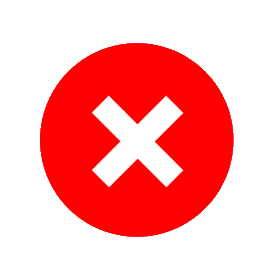
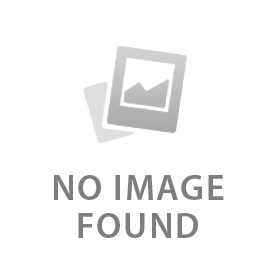
finished database

diff --git a/main.py b/main.py
@@ -7,21 +7,14 @@ import tkinter.messagebox
 from io import BytesIO
 from PIL import Image, ImageTk
 import base64
+import sqlite3
+
 appname = "Product Checker"
 appauthor = "Jackywathy24"
 #import os
 #os.chdir(appdirs.user_data_dir(appname,appauthor))
 
-
-
-
-
-
-
-
 picturePath = ...
-
-
 
 class MyAppPage(tkinter.Frame):
     def __init__(self, parent, database, MainApp):
@@ -29,6 +22,7 @@ class MyAppPage(tkinter.Frame):
         :type database: SQLDatabase
         :type MainApp: Application
         """
+
         super().__init__(parent)
         self.database = database
         self.MainApp = MainApp
@@ -38,17 +32,20 @@ class MyAppPage(tkinter.Frame):
 class MyBarcodePage(MyAppPage):
     def queryDataBase(self, event):
         if self.MainApp.checkSpecialBarcodes(event.widget.get()):
-            print(event.widget.get())
             event.widget.doDelete = True
         else:
             barcode = event.widget.get()
             barcode_data = self.database.get_item(barcode)
-            if barcode_data is not None:
-                #print(barcode_data)
-                self.set_info(barcode_data)
+            # get data in excel&basic isbn's
+            if barcode_data is None:
+                # get data from basic #123's
+                barcode_data = self.database.get_basic_number(barcode)
+                if barcode_data is not None:
+                    self.set_info(barcode_data)
+                else:
+                    self.set_info(None)
             else:
-                #print("NONE")
-                self.set_info(None)
+                self.set_info(barcode_data)
 
     def set_info(self, info):
         raise NotImplemented
@@ -57,7 +54,12 @@ class MyBarcodePage(MyAppPage):
     def selectAll(event):
         event.widget.selection_range(0,END)
 
-
+    @staticmethod
+    def upToThree(event, length=3):
+        input = event.widget.get()
+        if len(input) > length:
+            event.widget.delete(0,END)
+            event.widget.insert(0, input[:length])
 
 class InsertPage(MyAppPage):
     def SwitchTo(self):
@@ -79,8 +81,8 @@ class ImageHolderUpdater:
         return self._image
     @Image.setter
     def Image(self, newimage):
-        if newimage is None:
-            self._image = None
+        if newimage is None or newimage.lower() == 'none':
+            self._image = errorImage
         else:
             self.decoded = Image.open(BytesIO(base64.b64decode(newimage)))
             #self.decoded.show()
@@ -102,16 +104,18 @@ class ImageHolderUpdater:
 class QueryPage(MyBarcodePage):
     def set_info(self, infoTuple):
         if infoTuple is None:
-            for i in [self.ItemNameVar, self.ISBNVar, self.authorVar]:
+            for i in [self.ItemNameVar, self.ISBNVar, self.authorVar,self.frontVar, self.backVar,self.ImageHolder]:
                 i.set("None")
-            for i in self.frontVar, self.backVar:
-                i.set("None")
-            self.priceVar.set('None')
         else:
+            id = False
+            if len(infoTuple) > 7: # if it contains an id!
+                id = infoTuple[7]
+                infoTuple = infoTuple[:7]
             for var, data in zip([self.ItemNameVar, self.authorVar, self.ISBNVar, self.frontVar, self.backVar, self.priceVar, self.ImageHolder], infoTuple):
-                #print('setting', var, 'to', data)
                 var.set(data)
             self.priceVar.set("$"+self.priceVar.get())
+            if id == False:
+                print(id, "IS ID")
 
     def SwitchTo(self):
         self.barcodeEntry.focus_set()
@@ -137,14 +141,25 @@ class QueryPage(MyBarcodePage):
             self.queryDataBase(event)
             self.selectAll(event)
 
+
+
         tkinter.Label(self, text="Barcode").grid(row=0, column=0, columnspan=8)
 
 
-
-        barcodeEntry = tkinter.Entry(self, font=("Courier", 20), justify='center')
+        entriesFrame = tkinter.Frame(self)
+        barcodeEntry = tkinter.Entry(entriesFrame, font=("Courier", 20), justify='center')
         barcodeEntry.bind("<Return>", queryAndSelect)
-        barcodeEntry.grid(row=1, column=0, columnspan=8, padx=(35,35), pady=(0,35))
+
+        barcodeEntry.pack(side=LEFT)
         self.barcodeEntry = barcodeEntry
+
+
+
+        entriesFrame.grid(row=1,column=0,columnspan=8,pady=(0,35))
+
+
+
+
         ShowBox = tkinter.Frame(self)
         self.ShowBoxText = tkinter.StringVar()
         ShowBoxLabel = tkinter.Label(ShowBox,  font=("Helvetica", 16), justify='center', textvariable=self.ShowBoxText)
@@ -176,39 +191,33 @@ class QueryPage(MyBarcodePage):
             tkinter.Label(authorGrid, text=doubleRow[0], **self.queryDescriptor).grid(**self.padStick,row=iter*2,column=0,padx=(0,100))
             tkinter.Label(authorGrid, textvariable=Vars[0], **self.queryData).grid(**self.padStick,row=iter*2+1, column=0,padx=(0,100))
 
-            tkinter.Label(authorGrid, text=doubleRow[1], **self.queryDescriptor).grid(**self.padStick,row=iter*2,column=1,padx=(100,0))
-            tkinter.Label(authorGrid, textvariable=Vars[1], **self.queryData).grid(**self.padStick,row=iter*2+1, column=1,padx=(100,0))
+            tkinter.Label(authorGrid, text=doubleRow[1], **self.queryDescriptor).grid(**self.padStick,row=iter*2,column=2,padx=(100,0))
+            tkinter.Label(authorGrid, textvariable=Vars[1], **self.queryData).grid(**self.padStick,row=iter*2+1, column=2,padx=(100,0))
 
 
-
+        ImageLabel = tkinter.Label(authorGrid, image=errorImage, width=250,height=300)
+        self.ImageHolder = ImageHolderUpdater(ImageLabel)
+        ImageLabel.grid(rowspan=4, row=0, column=1)
 
         authorGrid.pack()
-
-        ImageLabel = tkinter.Label(dataFrame)
-        self.ImageHolder = ImageHolderUpdater(ImageLabel)
-        ImageLabel.pack(fill=BOTH, expand=1)
 
 
 
         dataFrame.grid(row=2, column=0, columnspan=8, padx=(10,10), pady=(10,10), sticky=N+S+E+W)
 
         self.set_info(None)
-        print("DONES")
 
-
-import sys
-import sqlite3
 class SQLDatabase:
     def __init__(self, databaseName):
         self.connection = sqlite3.connect(databaseName)
         self.c = self.connection.cursor()
 
     def get_item(self, isbn):
-        print(type(isbn), print(isbn))
         excelResponse = self.c.execute("""SELECT * FROM excel WHERE isbn=(?) LIMIT 1""", (isbn,)).fetchone()
         if not excelResponse:
             return self.c.execute("""SELECT * FROM basic WHERE isbn=(?) LIMIT 1""", (isbn,)).fetchone()
         return excelResponse
+
     def set_qty(self, isbn, front=None, back=None):
         if self.c.execute("SELECT 1 FROM excel WHERE isbn=(?) LIMIT 1", (isbn,)).fetchone():
             table = 'excel'
@@ -225,37 +234,12 @@ class SQLDatabase:
                                   back_qty=(?)
                                   WHERE isbn=(?);""", (table,back,isbn))
 
+    def get_basic_number(self, number):
+        return self.c.execute("""SELECT * FROM basic WHERE id=(?) LIMIT 1""", (number,)).fetchone()
 
-
-class StockPage(MyAppPage):
-    def __init__(self,parent,database,MainApp):
-        super().__init__(parent,database,MainApp)
-        '''
-        setOrAddFrame = tkinter.Frame(self)
-        setOrAddLabel = tkinter.Label(setOrAddFrame, text='Set/Increment')
-        setOrAddVar = tkinter.StringVar()
-        self.setButton = tkinter.Radiobutton(setOrAddFrame, text="Set", variable=setOrAddVar, value='set')
-        self.incButton = tkinter.Radiobutton(setOrAddFrame, text="Inc", variable=setOrAddVar,value='inc')
-        '''
-        barcodeFrame = tkinter.Frame(self)
-        barcodeLabel = tkinter.Label(barcodeFrame, text="Barcode")
-
-
-        entryBarcodeFrame = tkinter.Frame(barcodeFrame)
-
-        # TODO make this work!
-        barcodeEntry = tkinter.Entry(entryBarcodeFrame)
-
-        numEntry = tkinter.Entry(entryBarcodeFrame, width=3)
-
-        barcodeEntry.grid(row=0, column=0,columnspan=3)
-        numEntry.grid(row=0, column=3, columnspan=1)
-
-        #barcodeEntry.grid(column=0, columnspan=2)
-        barcodeLabel.pack()
-        entryBarcodeFrame.pack()
-
-        barcodeFrame.pack()
+class StockPage(MyBarcodePage):
+    def __init__(self,parent, database, MainApp):
+        super().__init__(parent, database, MainApp)
 
 
 
@@ -263,7 +247,10 @@ class StockPage(MyAppPage):
 
 
 
+
+import sys
 class Application:
+
     SpecialBarcodes = {
         "?":"query"
     }
@@ -280,6 +267,10 @@ class Application:
     def __init__(self):
         self.database = SQLDatabase("database.db")
         self.root = tkinter.Tk()
+        global errorImage
+        errorImage = ImageTk.PhotoImage(Image.open("errorcross.png"))
+
+
         #self.root.attributes("-fullscreen", True)
 
 
@@ -297,7 +288,7 @@ class Application:
         self.notebook.add(self.pages['query'], text='Query')
         self.notebook.add(self.pages['insert'], text='Insert')
         self.notebook.add(self.pages['stock'], text='Stock')
-        self.notebook.pack()
+        self.notebook.pack(pady=20,padx=20)
 
         self.notebook.bind("<<NotebookTabChanged>>", self.chooseNoteBookTarget)
         import traceback
